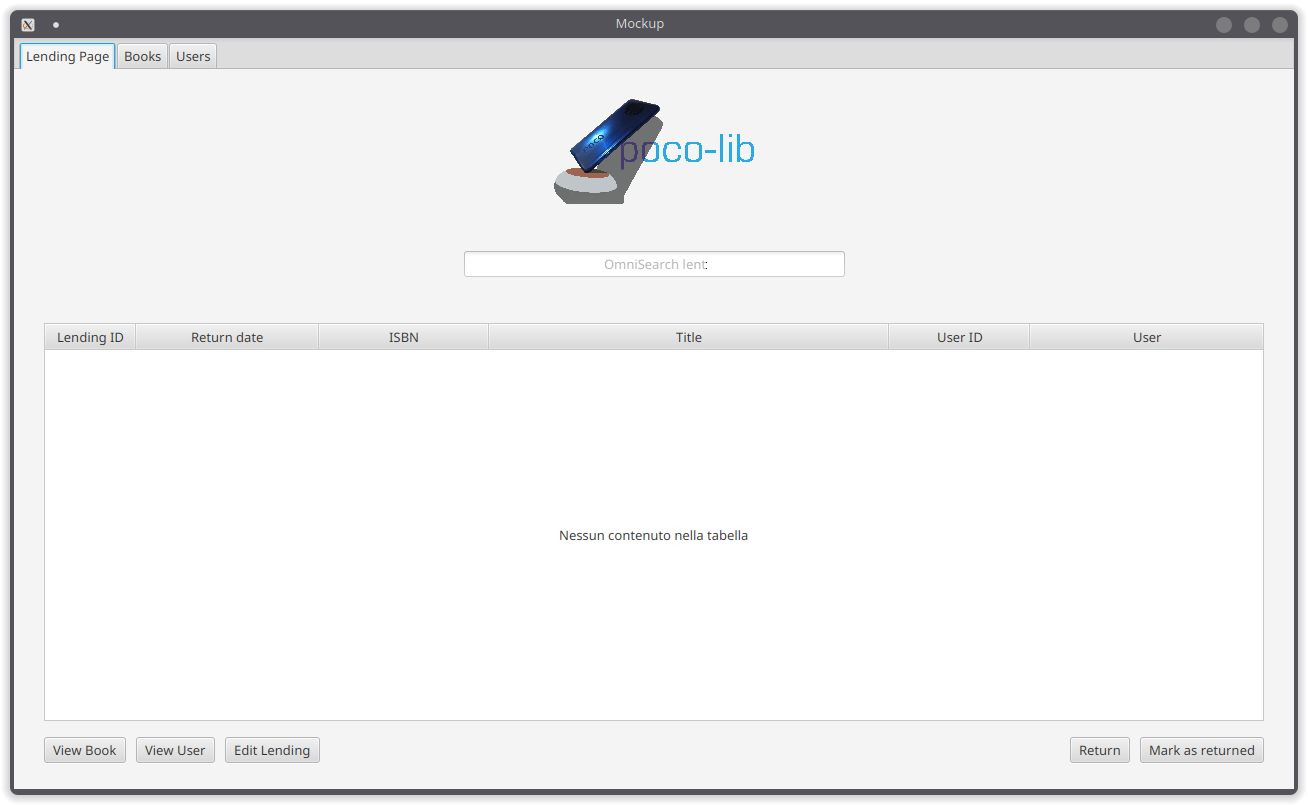
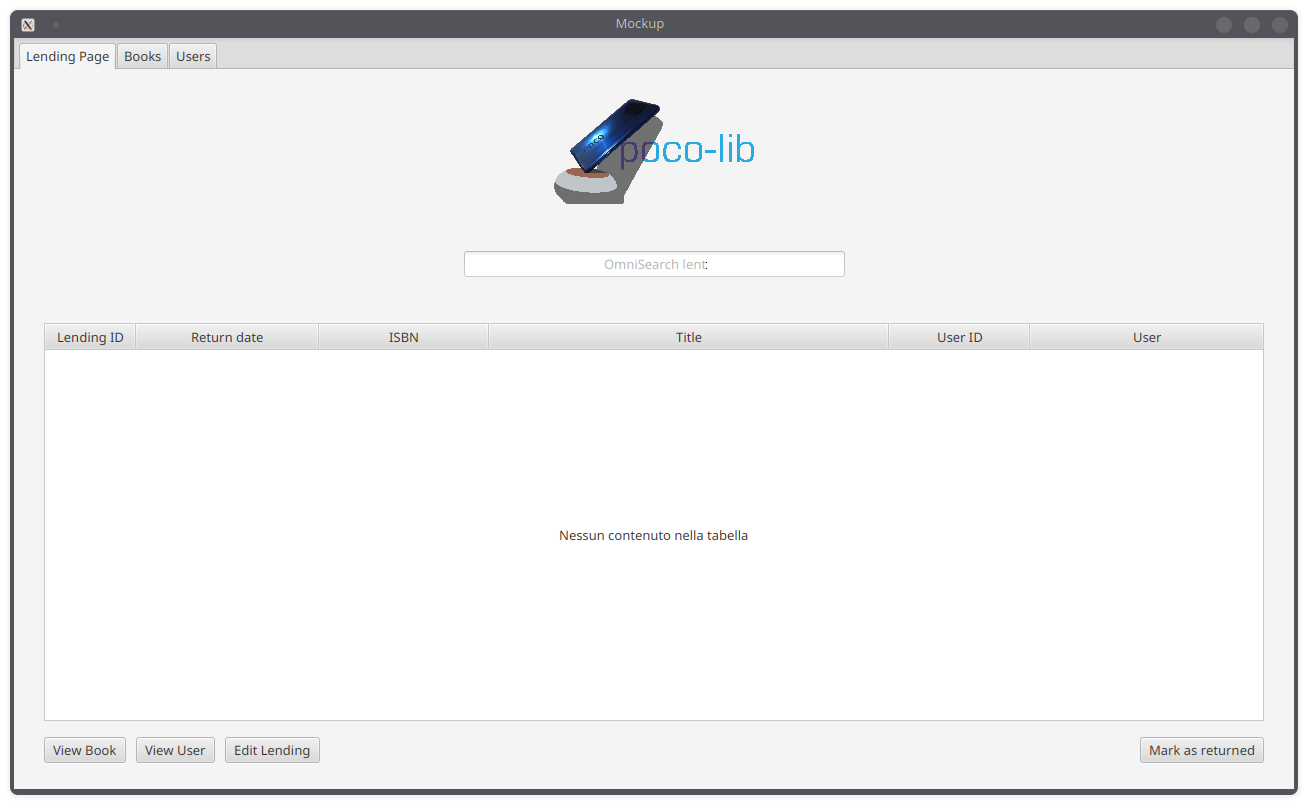
Update mockup buttons and add new requirements for book management features

Changed region(s): [[0.0, 0.0311, 1.0, 0.9938], [0.0, 0.0311, 0.0917, 0.0932]]

diff --git a/SRS/specifica-dei-requisiti.tex b/SRS/specifica-dei-requisiti.tex
@@ -141,6 +141,12 @@
             \hline
             FIR-01.1\label{FIR:01.1} & ALTA & BASSO & \textbf{Accesso Gestione Libri:} Dalla pagina principale deve essere possibile accedere alla sezione di gestione dei libri tramite una tab dedicata\\
             \hline
+            FIR-01.1.1\label{FIR:01.1.1} & ALTA & BASSO & \textbf{Ricerca dei Libri in Prestito:} Deve essere possibile cercare tra i libri attualmente in prestito inserendo dati del libro o dell'utente, inclusa la data di restituzione\\
+            \hline
+            FIR-01.1.2\label{FIR:01.1.2} & ALTA & BASSO & \textbf{Visualizzazione Elenco Libri in Prestito Ordinata:} Deve essere possibile visualizzare l'elenco dei libri attualmente in prestito, con l'indicazione dell'utente che li ha presi in prestito e la data di restituzione prevista\\
+            \hline
+            FIR-01.1.3\label{FIR:01.1.3} & ALTA & BASSO & \textbf{Area di Controllo:} Deve essere presente un'area che permetta di
+            \hline
             FIR-01.2\label{FIR:01.2} & ALTA & BASSO & \textbf{Accesso Gestione Utenti:} Dalla pagina principale deve essere possibile accedere alla sezione di gestione degli utenti tramite una tab dedicata\\
             \hline
             FIR-01.3\label{FIR:01.3} & ALTA & BASSO & \textbf{Accesso Gestione Prestiti:} Dalla pagina principale deve essere possibile accedere alla sezione di gestione dei prestiti tramite una tab dedicata\\
